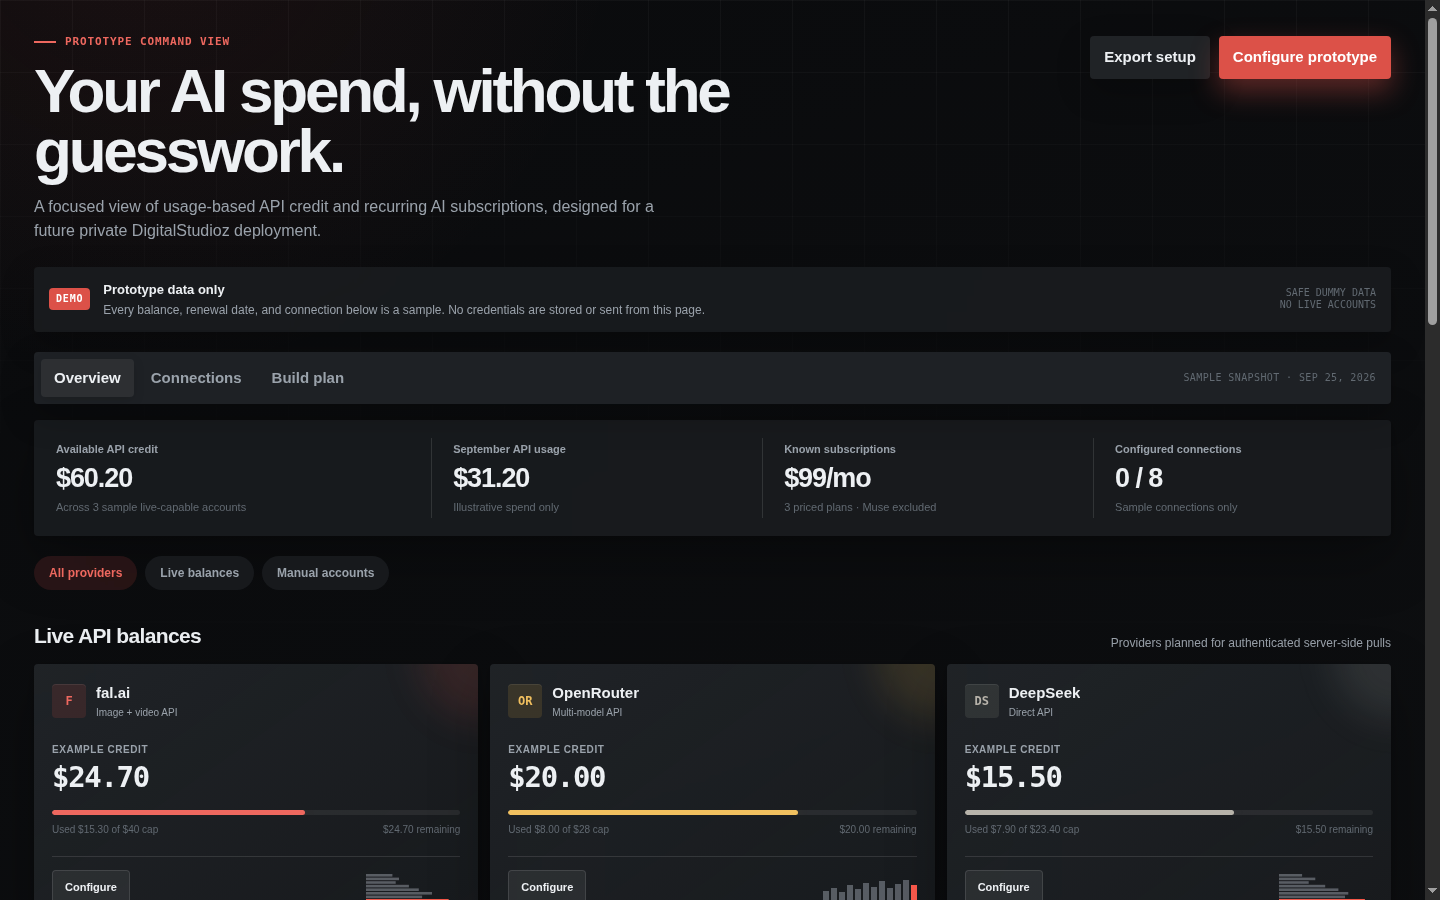
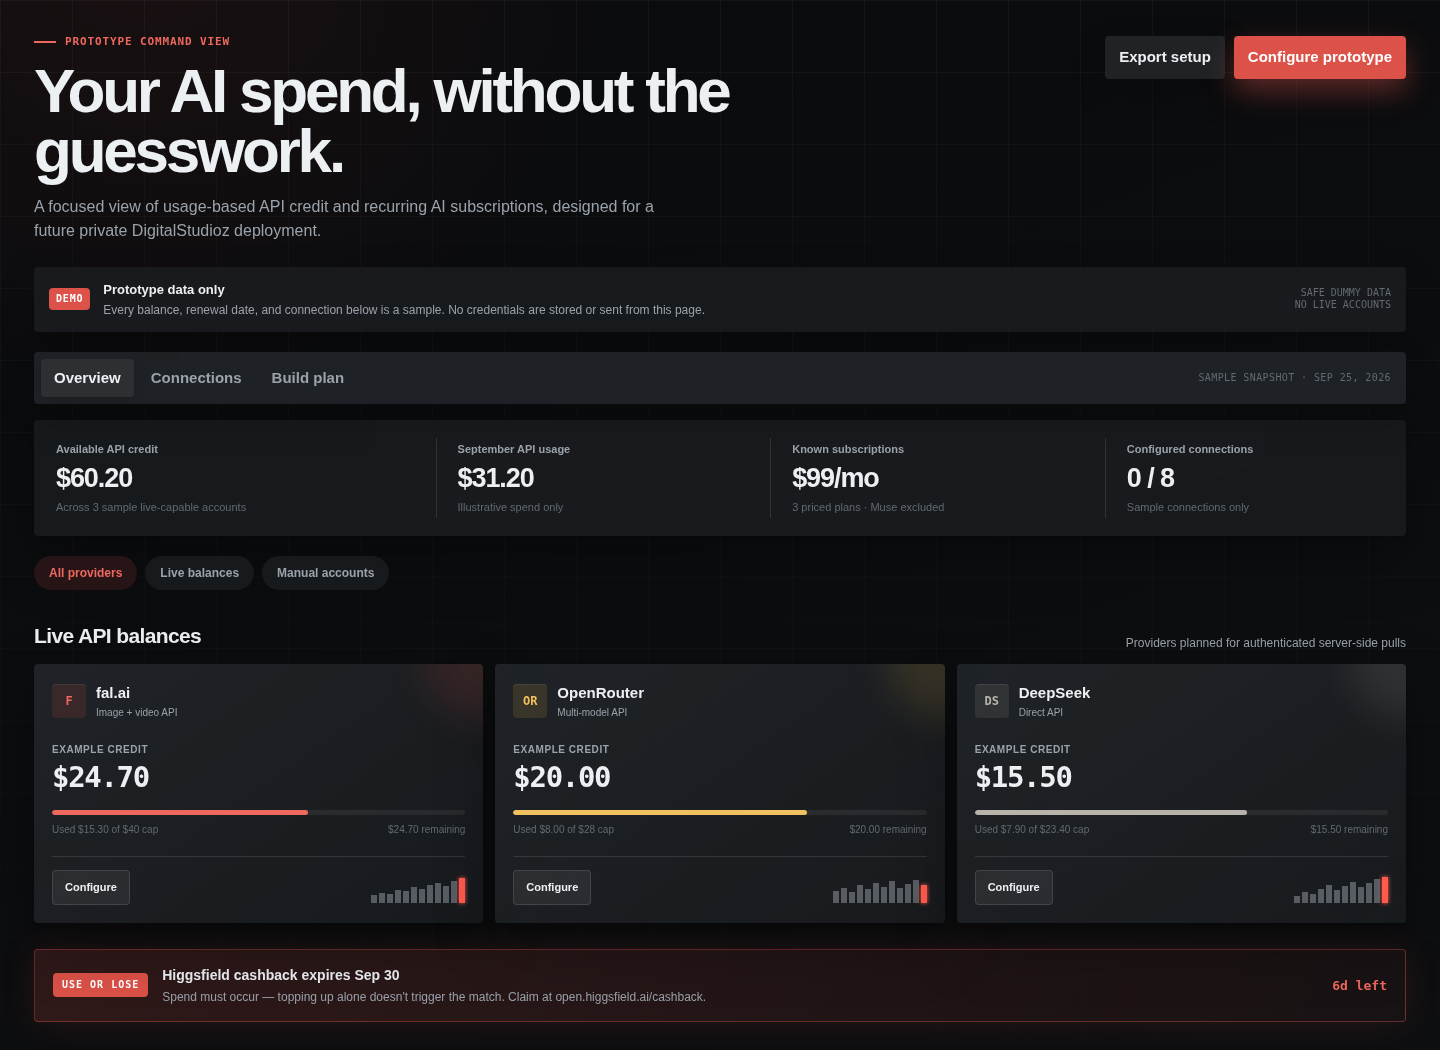
xrev-best-of-both: style-2 vertical square bars on all cards, style lab removed, final polish + fresh screenshot

diff --git a/index.html b/index.html
@@ -137,20 +137,7 @@
     @media(max-width:700px){body::before{background-size:48px 48px}.app{padding:22px 15px 52px}.topline{display:block}.top-actions{justify-content:flex-start;margin-top:20px}.notice{grid-template-columns:auto 1fr;margin-inline:0}.notice-side{display:none}.navrow{position:static;align-items:flex-start;flex-direction:column;padding:6px}.stamp{order:-1;padding:5px 7px 1px}.tabs{width:100%}.tab{flex:1;padding-inline:6px}.live-grid,.manual-grid,.connections,.insight-grid{grid-template-columns:1fr}.summary{grid-template-columns:1fr 1fr}.metric{padding:16px}.metric-value{font-size:22px}.section-head{align-items:flex-start;flex-direction:column;gap:3px}h1{font-size:39px}.card{padding:17px}.usage-panel,.access-panel{padding:18px}}
     @media(max-width:390px){.summary{grid-template-columns:1fr}.metric+.metric::before{display:none}.metric::after{content:"";position:absolute;left:16px!important;right:16px!important;bottom:0;height:1px;background:var(--line)}.metric:last-child::after{display:none}.top-actions .btn{flex:1}.provider-name{white-space:normal}.card-top{align-items:flex-start}}
     @media(prefers-reduced-motion:reduce){html{scroll-behavior:auto}.toast,.btn,.card,.pill{transition:none}}
-  
-    .lab{margin-top:26px;background:var(--glass);border:0;border-radius:var(--radius);padding:22px;box-shadow:var(--shadow);backdrop-filter:blur(24px) saturate(130%);-webkit-backdrop-filter:blur(24px) saturate(130%)}
-    .lab h2{font-size:17px;margin:0 0 4px}
-    .lab .lab-note{color:var(--muted);font-size:13px;margin:0 0 16px}
-    .lab-grid{display:grid;grid-template-columns:repeat(3,1fr);gap:14px}
-    @media(max-width:900px){.lab-grid{grid-template-columns:1fr}}
-    .lab-card{background:rgba(255,255,255,.025);border:1px solid var(--line);border-radius:10px;padding:16px}
-    .lab-card h3{font-size:13px;margin:0 0 2px}
-    .lab-card .vdesc{font-family:"IBM Plex Mono",monospace;font-size:11px;color:var(--muted);margin:0}
-    .lab-card svg{width:100%;height:64px;display:block;margin-top:12px;overflow:visible}
-    .lab-tag{display:inline-block;font-family:"IBM Plex Mono",monospace;font-size:10px;color:var(--gold);border:1px solid var(--gold-dim);border-radius:4px;padding:2px 6px;margin-bottom:8px;letter-spacing:.08em}
-    .legend{display:flex;gap:10px;margin-top:10px;font-family:"IBM Plex Mono",monospace;font-size:10px;color:var(--muted)}
-    .legend i{display:inline-block;width:8px;height:8px;border-radius:2px;margin-right:4px}
-</style>
+  </style>
 </head>
 <body>
   <main class="app">
@@ -199,17 +186,17 @@
         <article class="card" style="--service:var(--red-strong);--service-soft:var(--red-soft);--level:62%">
           <div class="card-top"><div class="provider"><div class="monogram">F</div><div><div class="provider-name">fal.ai</div><div class="provider-kind">Image + video API</div></div></div></div>
           <div class="balance-label">Example credit</div><div class="balance">$24.70</div><div class="bar"><span></span></div><div class="bar-meta"><span>Used $15.30 of $40 cap</span><span>$24.70 remaining</span></div>
-          <div class="card-foot"><button class="mini config-link" data-service="fal.ai">Configure</button><svg class="sparkbars" viewBox="0 0 96 30" role="img" aria-label="Sample fal.ai daily usage"><rect x="2" y="1.0" width="26.4" height="2.6" fill="#a7adb8" opacity=".45"/><rect x="2" y="4.6" width="33.0" height="2.6" fill="#a7adb8" opacity=".45"/><rect x="2" y="8.2" width="29.7" height="2.6" fill="#a7adb8" opacity=".45"/><rect x="2" y="11.8" width="42.9" height="2.6" fill="#a7adb8" opacity=".45"/><rect x="2" y="15.4" width="52.8" height="2.6" fill="#a7adb8" opacity=".45"/><rect x="2" y="19.0" width="66.0" height="2.6" fill="#a7adb8" opacity=".45"/><rect x="2" y="22.6" width="56.1" height="2.6" fill="#a7adb8" opacity=".45"/><rect x="2" y="26.2" width="82.5" height="2.6" fill="#ff5b4d" filter="url(#barGlow)"/><rect x="2" y="26.2" width="82.5" height="2.6" fill="#ff5b4d"/></svg></div>
+          <div class="card-foot"><button class="mini config-link" data-service="fal.ai">Configure</button><svg class="sparkbars" viewBox="0 0 96 30" role="img" aria-label="Sample fal.ai daily usage"><defs><filter id="barGlow" x="-60%" y="-60%" width="220%" height="220%"><feGaussianBlur stdDeviation="2.2" result="b"/><feMerge><feMergeNode in="b"/><feMergeNode in="SourceGraphic"/></feMerge></filter></defs><rect x="2" y="22" width="6" height="8" fill="#a7adb8" opacity=".45"/><rect x="10" y="20" width="6" height="10" fill="#a7adb8" opacity=".45"/><rect x="18" y="21" width="6" height="9" fill="#a7adb8" opacity=".45"/><rect x="26" y="17" width="6" height="13" fill="#a7adb8" opacity=".45"/><rect x="34" y="18" width="6" height="12" fill="#a7adb8" opacity=".45"/><rect x="42" y="14" width="6" height="16" fill="#a7adb8" opacity=".45"/><rect x="50" y="16" width="6" height="14" fill="#a7adb8" opacity=".45"/><rect x="58" y="12" width="6" height="18" fill="#a7adb8" opacity=".45"/><rect x="66" y="10" width="6" height="20" fill="#a7adb8" opacity=".45"/><rect x="74" y="13" width="6" height="17" fill="#a7adb8" opacity=".45"/><rect x="82" y="8" width="6" height="22" fill="#a7adb8" opacity=".45"/><rect x="90" y="5" width="6" height="25" fill="#ff5b4d" filter="url(#barGlow)"/><rect x="90" y="5" width="6" height="25" fill="#ff5b4d"/></svg></div>
         </article>
         <article class="card" style="--service:var(--gold-strong);--service-soft:var(--gold-soft);--level:71%">
           <div class="card-top"><div class="provider"><div class="monogram">OR</div><div><div class="provider-name">OpenRouter</div><div class="provider-kind">Multi-model API</div></div></div></div>
           <div class="balance-label">Example credit</div><div class="balance">$20.00</div><div class="bar"><span></span></div><div class="bar-meta"><span>Used $8.00 of $28 cap</span><span>$20.00 remaining</span></div>
-          <div class="card-foot"><button class="mini config-link" data-service="OpenRouter">Configure</button><svg class="sparkbars" viewBox="0 0 96 30" role="img" aria-label="Sample OpenRouter daily usage — vertical square bars"><rect x="2" y="18" width="6" height="12" fill="#a7adb8" opacity=".45"/><rect x="10" y="15" width="6" height="15" fill="#a7adb8" opacity=".45"/><rect x="18" y="19" width="6" height="11" fill="#a7adb8" opacity=".45"/><rect x="26" y="12" width="6" height="18" fill="#a7adb8" opacity=".45"/><rect x="34" y="16" width="6" height="14" fill="#a7adb8" opacity=".45"/><rect x="42" y="10" width="6" height="20" fill="#a7adb8" opacity=".45"/><rect x="50" y="14" width="6" height="16" fill="#a7adb8" opacity=".45"/><rect x="58" y="8" width="6" height="22" fill="#a7adb8" opacity=".45"/><rect x="66" y="15" width="6" height="15" fill="#a7adb8" opacity=".45"/><rect x="74" y="11" width="6" height="19" fill="#a7adb8" opacity=".45"/><rect x="82" y="7" width="6" height="23" fill="#a7adb8" opacity=".45"/><rect x="90" y="12" width="6" height="18" fill="#ff5b4d" filter="url(#barGlow)"/><rect x="90" y="12" width="6" height="18" fill="#ff5b4d"/></svg></div>
+          <div class="card-foot"><button class="mini config-link" data-service="OpenRouter">Configure</button><svg class="sparkbars" viewBox="0 0 96 30" role="img" aria-label="Sample OpenRouter daily usage"><rect x="2" y="18" width="6" height="12" fill="#a7adb8" opacity=".45"/><rect x="10" y="15" width="6" height="15" fill="#a7adb8" opacity=".45"/><rect x="18" y="19" width="6" height="11" fill="#a7adb8" opacity=".45"/><rect x="26" y="12" width="6" height="18" fill="#a7adb8" opacity=".45"/><rect x="34" y="16" width="6" height="14" fill="#a7adb8" opacity=".45"/><rect x="42" y="10" width="6" height="20" fill="#a7adb8" opacity=".45"/><rect x="50" y="14" width="6" height="16" fill="#a7adb8" opacity=".45"/><rect x="58" y="8" width="6" height="22" fill="#a7adb8" opacity=".45"/><rect x="66" y="15" width="6" height="15" fill="#a7adb8" opacity=".45"/><rect x="74" y="11" width="6" height="19" fill="#a7adb8" opacity=".45"/><rect x="82" y="7" width="6" height="23" fill="#a7adb8" opacity=".45"/><rect x="90" y="12" width="6" height="18" fill="#ff5b4d" filter="url(#barGlow)"/><rect x="90" y="12" width="6" height="18" fill="#ff5b4d"/></svg></div>
         </article>
         <article class="card" style="--service:#b7b3aa;--service-soft:rgba(183,179,170,.12);--level:66%">
           <div class="card-top"><div class="provider"><div class="monogram">DS</div><div><div class="provider-name">DeepSeek</div><div class="provider-kind">Direct API</div></div></div></div>
           <div class="balance-label">Example credit</div><div class="balance">$15.50</div><div class="bar"><span></span></div><div class="bar-meta"><span>Used $7.90 of $23.40 cap</span><span>$15.50 remaining</span></div>
-          <div class="card-foot"><button class="mini config-link" data-service="DeepSeek">Configure</button><svg class="sparkbars" viewBox="0 0 96 30" role="img" aria-label="Sample DeepSeek daily usage"><rect x="2" y="1.0" width="23.1" height="2.6" fill="#a7adb8" opacity=".45"/><rect x="2" y="4.6" width="36.3" height="2.6" fill="#a7adb8" opacity=".45"/><rect x="2" y="8.2" width="29.7" height="2.6" fill="#a7adb8" opacity=".45"/><rect x="2" y="11.8" width="46.2" height="2.6" fill="#a7adb8" opacity=".45"/><rect x="2" y="15.4" width="59.4" height="2.6" fill="#a7adb8" opacity=".45"/><rect x="2" y="19.0" width="69.3" height="2.6" fill="#a7adb8" opacity=".45"/><rect x="2" y="22.6" width="66.0" height="2.6" fill="#a7adb8" opacity=".45"/><rect x="2" y="26.2" width="85.8" height="2.6" fill="#ff5b4d" filter="url(#barGlow)"/><rect x="2" y="26.2" width="85.8" height="2.6" fill="#ff5b4d"/></svg></div>
+          <div class="card-foot"><button class="mini config-link" data-service="DeepSeek">Configure</button><svg class="sparkbars" viewBox="0 0 96 30" role="img" aria-label="Sample DeepSeek daily usage"><rect x="2" y="23" width="6" height="7" fill="#a7adb8" opacity=".45"/><rect x="10" y="19" width="6" height="11" fill="#a7adb8" opacity=".45"/><rect x="18" y="21" width="6" height="9" fill="#a7adb8" opacity=".45"/><rect x="26" y="16" width="6" height="14" fill="#a7adb8" opacity=".45"/><rect x="34" y="12" width="6" height="18" fill="#a7adb8" opacity=".45"/><rect x="42" y="17" width="6" height="13" fill="#a7adb8" opacity=".45"/><rect x="50" y="13" width="6" height="17" fill="#a7adb8" opacity=".45"/><rect x="58" y="9" width="6" height="21" fill="#a7adb8" opacity=".45"/><rect x="66" y="14" width="6" height="16" fill="#a7adb8" opacity=".45"/><rect x="74" y="10" width="6" height="20" fill="#a7adb8" opacity=".45"/><rect x="82" y="6" width="6" height="24" fill="#a7adb8" opacity=".45"/><rect x="90" y="4" width="6" height="26" fill="#ff5b4d" filter="url(#barGlow)"/><rect x="90" y="4" width="6" height="26" fill="#ff5b4d"/></svg></div>
         </article>
       </div>
 
@@ -232,19 +219,6 @@
         <section class="usage-panel"><h2>Seven-day usage shape</h2><p class="subcopy">Illustrative API spend · $31.20 total</p><div class="usage-chart" aria-label="Sample daily API spending chart"><div class="day"><div class="col" style="--h:23%"></div><span>Fri</span></div><div class="day"><div class="col" style="--h:43%"></div><span>Sat</span></div><div class="day"><div class="col" style="--h:18%"></div><span>Sun</span></div><div class="day"><div class="col" style="--h:67%"></div><span>Mon</span></div><div class="day"><div class="col" style="--h:45%"></div><span>Tue</span></div><div class="day"><div class="col" style="--h:86%"></div><span>Wed</span></div><div class="day"><div class="col" style="--h:52%"></div><span>Thu</span></div></div></section>
         <aside class="access-panel"><h2>Access model</h2><p class="subcopy">What each integration should use</p><div class="access-list"><div class="access-row"><strong>Live APIs</strong><span>Read-only server keys</span></div><div class="access-row"><strong>Manual accounts</strong><span>Verified entries only</span></div><div class="access-row"><strong>Trinity + Ravyn</strong><span>Separate scoped tokens</span></div><div class="access-row"><strong>Browser</strong><span>No provider secrets</span></div></div></aside>
       </div>
-
-      <section class="lab">
-        <h2>Style lab — usage trace options</h2>
-        <p class="lab-note">Sample shapes only — nothing here reads a real account. Pick one and I'll roll it across the live cards above.</p>
-        <div class="lab-grid">
-        <div class="lab-card"><span class="lab-tag">SAMPLE</span><h3>1 · Rounded bars</h3><p class="vdesc">The current look, for reference.</p><svg viewBox="0 0 120 48" role="img" aria-label="Sample: rounded bars"><defs><linearGradient id="lg1" x1="0" y1="0" x2="0" y2="1"><stop offset="0" stop-color="#ff6b5e"/><stop offset="1" stop-color="#ff6b5e" stop-opacity=".18"/></linearGradient></defs><rect x="2" y="38" width="7" height="10" rx="3.5" fill="url(#lg1)"/><rect x="12" y="34" width="7" height="14" rx="3.5" fill="url(#lg1)"/><rect x="22" y="37" width="7" height="11" rx="3.5" fill="url(#lg1)"/><rect x="32" y="31" width="7" height="17" rx="3.5" fill="url(#lg1)"/><rect x="42" y="34" width="7" height="14" rx="3.5" fill="url(#lg1)"/><rect x="52" y="28" width="7" height="20" rx="3.5" fill="url(#lg1)"/><rect x="62" y="32" width="7" height="16" rx="3.5" fill="url(#lg1)"/><rect x="72" y="24" width="7" height="24" rx="3.5" fill="url(#lg1)"/><rect x="82" y="30" width="7" height="18" rx="3.5" fill="url(#lg1)"/><rect x="92" y="21" width="7" height="27" rx="3.5" fill="url(#lg1)"/><rect x="102" y="26" width="7" height="22" rx="3.5" fill="url(#lg1)"/><rect x="112" y="17" width="7" height="31" rx="3.5" fill="#ff8a7a" filter="url(#barGlow)"/><rect x="112" y="17" width="7" height="31" rx="3.5" fill="#ff8a7a"/></svg></div>
-        <div class="lab-card"><span class="lab-tag">SAMPLE</span><h3>2 · Square bars</h3><p class="vdesc">Sharp corners, mono slate, red latest.</p><svg viewBox="0 0 120 48" role="img" aria-label="Sample: square bars"><rect x="2" y="38" width="7" height="10" fill="#a7adb8" opacity=".45"/><rect x="12" y="34" width="7" height="14" fill="#a7adb8" opacity=".45"/><rect x="22" y="37" width="7" height="11" fill="#a7adb8" opacity=".45"/><rect x="32" y="31" width="7" height="17" fill="#a7adb8" opacity=".45"/><rect x="42" y="34" width="7" height="14" fill="#a7adb8" opacity=".45"/><rect x="52" y="28" width="7" height="20" fill="#a7adb8" opacity=".45"/><rect x="62" y="32" width="7" height="16" fill="#a7adb8" opacity=".45"/><rect x="72" y="24" width="7" height="24" fill="#a7adb8" opacity=".45"/><rect x="82" y="30" width="7" height="18" fill="#a7adb8" opacity=".45"/><rect x="92" y="21" width="7" height="27" fill="#a7adb8" opacity=".45"/><rect x="102" y="26" width="7" height="22" fill="#a7adb8" opacity=".45"/><rect x="112" y="17" width="7" height="31" fill="#ff5b4d"/></svg></div>
-        <div class="lab-card"><span class="lab-tag">SAMPLE</span><h3>3 · Horizontal bars</h3><p class="vdesc">Latest day at the bottom, glowing.</p><svg viewBox="0 0 120 59" role="img" aria-label="Sample: horizontal bars"><defs><linearGradient id="lgh" x1="0" y1="0" x2="1" y2="0"><stop offset="0" stop-color="#ff6b5e" stop-opacity=".25"/><stop offset="1" stop-color="#ff8a7a"/></linearGradient></defs><rect x="2" y="3" width="33.0" height="4" rx="2" fill="url(#lgh)"/><rect x="2" y="10" width="46.2" height="4" rx="2" fill="url(#lgh)"/><rect x="2" y="17" width="36.3" height="4" rx="2" fill="url(#lgh)"/><rect x="2" y="24" width="56.1" height="4" rx="2" fill="url(#lgh)"/><rect x="2" y="31" width="46.2" height="4" rx="2" fill="url(#lgh)"/><rect x="2" y="38" width="66.0" height="4" rx="2" fill="url(#lgh)"/><rect x="2" y="45" width="52.8" height="4" rx="2" fill="url(#lgh)"/><rect x="2" y="52" width="79.2" height="4" rx="2" fill="#ff8a7a" filter="url(#barGlow)"/><rect x="2" y="52" width="79.2" height="4" rx="2" fill="#ff8a7a"/></svg></div>
-        <div class="lab-card"><span class="lab-tag">SAMPLE</span><h3>4 · Dot plot</h3><p class="vdesc">Dot size = spend. Ring marks the latest day.</p><svg viewBox="0 0 120 48" role="img" aria-label="Sample: dot plot"><line x1="2" y1="44" x2="118" y2="44" stroke="#ffffff" stroke-opacity=".12"/><circle cx="6" cy="32.5" r="2.65" fill="#ff6b5e" opacity=".8"/><circle cx="16" cy="27.9" r="2.84" fill="#ff6b5e" opacity=".8"/><circle cx="26" cy="31.4" r="2.7" fill="#ff6b5e" opacity=".8"/><circle cx="36" cy="24.5" r="2.97" fill="#ff6b5e" opacity=".8"/><circle cx="46" cy="27.9" r="2.84" fill="#ff6b5e" opacity=".8"/><circle cx="56" cy="21.0" r="3.11" fill="#ff6b5e" opacity=".8"/><circle cx="66" cy="25.6" r="2.93" fill="#ff6b5e" opacity=".8"/><circle cx="76" cy="16.4" r="3.29" fill="#ff6b5e" opacity=".8"/><circle cx="86" cy="23.3" r="3.02" fill="#ff6b5e" opacity=".8"/><circle cx="96" cy="13.0" r="3.43" fill="#ff6b5e" opacity=".8"/><circle cx="106" cy="18.7" r="3.2" fill="#ff6b5e" opacity=".8"/><circle cx="116" cy="8.4" r="4.5" fill="#ff8a7a" filter="url(#barGlow)"/><circle cx="116" cy="8.4" r="4.5" fill="#ff8a7a"/><circle cx="116" cy="8.4" r="7.5" fill="none" stroke="#ff8a7a" stroke-opacity=".5"/></svg></div>
-        <div class="lab-card"><span class="lab-tag">SAMPLE</span><h3>5 · Heat bars</h3><p class="vdesc">Color follows the day: light, busy, heavy.</p><svg viewBox="0 0 120 48" role="img" aria-label="Sample: threshold bars"><rect x="2" y="38" width="7" height="10" rx="3.5" fill="#8b93a1" opacity=".9"/><rect x="12" y="34" width="7" height="14" rx="3.5" fill="#8b93a1" opacity=".9"/><rect x="22" y="37" width="7" height="11" rx="3.5" fill="#8b93a1" opacity=".9"/><rect x="32" y="31" width="7" height="17" rx="3.5" fill="#e8b23e" opacity=".9"/><rect x="42" y="34" width="7" height="14" rx="3.5" fill="#8b93a1" opacity=".9"/><rect x="52" y="28" width="7" height="20" rx="3.5" fill="#e8b23e" opacity=".9"/><rect x="62" y="32" width="7" height="16" rx="3.5" fill="#e8b23e" opacity=".9"/><rect x="72" y="24" width="7" height="24" rx="3.5" fill="#ff5b4d" opacity=".9"/><rect x="82" y="30" width="7" height="18" rx="3.5" fill="#e8b23e" opacity=".9"/><rect x="92" y="21" width="7" height="27" rx="3.5" fill="#ff5b4d" opacity=".9"/><rect x="102" y="26" width="7" height="22" rx="3.5" fill="#e8b23e" opacity=".9"/><rect x="112" y="17" width="7" height="31" rx="3.5" fill="#ff5b4d" filter="url(#barGlow)"/><rect x="112" y="17" width="7" height="31" rx="3.5" fill="#ff5b4d" opacity=".9"/></svg><div class="legend"><span><i style="background:#8b93a1"></i>light day</span><span><i style="background:#e8b23e"></i>busy day</span><span><i style="background:#ff5b4d"></i>heavy day</span></div></div>
-        <div class="lab-card"><span class="lab-tag">SAMPLE</span><h3>6 · Area + grid</h3><p class="vdesc">The squiggle, but with structure.</p><svg viewBox="0 0 120 48" role="img" aria-label="Sample: area with grid"><defs><linearGradient id="lgw" x1="0" y1="0" x2="0" y2="1"><stop offset="0" stop-color="#ff6b5e" stop-opacity=".45"/><stop offset="1" stop-color="#ff6b5e" stop-opacity="0"/></linearGradient></defs><line x1="2" y1="14" x2="118" y2="14" stroke="#ffffff" stroke-opacity=".08"/><line x1="2" y1="26" x2="118" y2="26" stroke="#ffffff" stroke-opacity=".08"/><line x1="2" y1="38" x2="118" y2="38" stroke="#ffffff" stroke-opacity=".08"/><path d="M6.0 32.5 L16.0 27.9 L26.0 31.4 L36.0 24.5 L46.0 27.9 L56.0 21.0 L66.0 25.6 L76.0 16.4 L86.0 23.3 L96.0 13.0 L106.0 18.7 L116.0 8.4 L118 48 L2 48 Z" fill="url(#lgw)"/><path d="M6.0 32.5 L16.0 27.9 L26.0 31.4 L36.0 24.5 L46.0 27.9 L56.0 21.0 L66.0 25.6 L76.0 16.4 L86.0 23.3 L96.0 13.0 L106.0 18.7 L116.0 8.4" fill="none" stroke="#ff6b5e" stroke-width="2" stroke-linecap="round"/><circle cx="116.0" cy="8.4" r="3.5" fill="#ff8a7a" filter="url(#barGlow)"/><circle cx="116.0" cy="8.4" r="3.5" fill="#ff8a7a"/></svg></div>
-        </div>
-      </section>
     </section>
 
     <section class="panel" id="connections" role="tabpanel">
